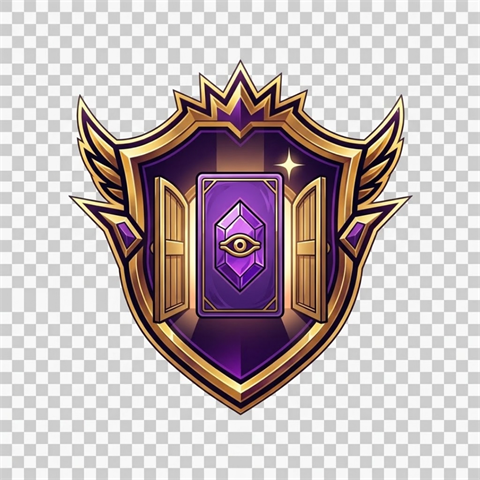
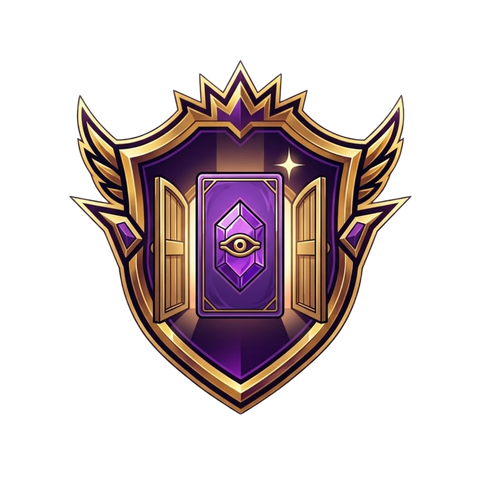
Replace Opening Act achievement artwork

diff --git a/profiles.js b/profiles.js
@@ -4,7 +4,7 @@ const destinationLabels={ephtear:"Ephtear",duelhalla:"Duelhalla","limb-faux":"Li
 const destinationImages={ephtear:"assets/retirement-ephtear.png",duelhalla:"assets/retirement-duelhalla.png","limb-faux":"assets/retirement-limbfaux.png"};
 const defaultAchievements=[
   ["opening-act","Opening Act","Complete your first confirmed match of the season."],["league-regular","League Regular","Complete 15 confirmed matches in the season."],["iron-duelist","Iron Duelist","Complete 50 confirmed matches in the season."],["first-blood","First Blood","Win your first match of the season."],["proven-duelist","Proven Duelist","Win 15 matches in the season."],["clean-sweep","Clean Sweep","Win a match 2–0."],["on-a-roll","On a Roll","Win 3 consecutive matches."],["bounce-back","Bounce Back","Win a match after at least 4 consecutive match losses."],["making-the-rounds","Making the Rounds","Duel against every other active duelist."],["equal-opportunity-duelist","Equal Opportunity Duelist","Win at least 1 match against every other active duelist."],["run-it-back","Run It Back","Win against a player who beat you earlier in the same season."],["last-stand","Last Stand","Win 3 matches with the same archetype while beginning each match at or above its Ephtear retirement threshold."],["leaving-a-legacy","Leaving a Legacy","Retire 3 archetypes to Ephtear or Duelhalla during the season."],["end-of-a-reign","End of a Reign","Win the decisive match that sends an opponent's archetype to Ephtear."],["ascension","Ascension","Retire an active archetype to Duelhalla."],
-].map(([id,name,description])=>({id,name,description,reward:4,imageUrl:`assets/achievements/${id}.png`}));
+].map(([id,name,description])=>({id,name,description,reward:4,imageUrl:`assets/achievements/${id}.png${id==="opening-act"?"?v=2":""}`}));
 const escapeHtml=(value="")=>String(value).replace(/[&<>'"]/g,character=>({"&":"&amp;","<":"&lt;",">":"&gt;","'":"&#39;",'"':"&quot;"})[character]);
 const safeReplayUrl=value=>{try{const url=new URL(value);return url.protocol==="https:"&&["duelingbook.com","www.duelingbook.com"].includes(url.hostname.toLowerCase())&&["/replay","/replay.php"].includes(url.pathname.replace(/\/$/,""))?url.href:null;}catch{return null;}};
 const dateLabel=value=>{const date=new Date(value);return Number.isNaN(date.valueOf())?"Date unavailable":new Intl.DateTimeFormat(undefined,{dateStyle:"medium"}).format(date);};
@@ -29,5 +29,5 @@ function renderProfile(player){
   profileElements.detail.scrollIntoView({behavior:"smooth",block:"start"});
 }
 profileElements.search.addEventListener("input",()=>{profileState.query=profileElements.search.value;renderRoster();});
-async function loadProfiles(){try{const response=await fetch(`data/banlist.json?v=${Date.now()}`,{cache:"no-store"});if(!response.ok)throw new Error(`HTTP ${response.status}`);const payload=await response.json();profileState.players=Array.isArray(payload.dashboard?.standings)?payload.dashboard.standings:[];profileState.active=Array.isArray(payload.activeArchetypes)?payload.activeArchetypes:[];profileState.retired=Array.isArray(payload.archetypes)?payload.archetypes:[];profileState.matches=Array.isArray(payload.dashboard?.matchHistory)?payload.dashboard.matchHistory:Array.isArray(payload.dashboard?.recentMatches)?payload.dashboard.recentMatches:[];profileState.achievements=Array.isArray(payload.achievements?.catalog)&&payload.achievements.catalog.length?payload.achievements.catalog:defaultAchievements;profileState.achievementAwards=Array.isArray(payload.achievements?.awards)?payload.achievements.awards:[];profileState.seasonName=payload.dashboard?.seasonName||payload.achievements?.seasonName||"Current season";profileElements.updated.textContent=payload.updatedAt?`Updated ${new Intl.DateTimeFormat(undefined,{dateStyle:"medium",timeStyle:"short"}).format(new Date(payload.updatedAt))}`:"Player records loaded";profileElements.total.textContent=`${profileState.players.length} player${profileState.players.length===1?"":"s"}`;renderRoster();const selected=new URLSearchParams(location.search).get("player");if(selected)renderProfile(profileState.players.find(player=>player.name===selected));}catch(error){console.error(error);profileElements.error.hidden=false;profileElements.updated.textContent="Player profiles unavailable";}}
+async function loadProfiles(){try{const response=await fetch(`data/banlist.json?v=${Date.now()}`,{cache:"no-store"});if(!response.ok)throw new Error(`HTTP ${response.status}`);const payload=await response.json();profileState.players=Array.isArray(payload.dashboard?.standings)?payload.dashboard.standings:[];profileState.active=Array.isArray(payload.activeArchetypes)?payload.activeArchetypes:[];profileState.retired=Array.isArray(payload.archetypes)?payload.archetypes:[];profileState.matches=Array.isArray(payload.dashboard?.matchHistory)?payload.dashboard.matchHistory:Array.isArray(payload.dashboard?.recentMatches)?payload.dashboard.recentMatches:[];const catalog=Array.isArray(payload.achievements?.catalog)&&payload.achievements.catalog.length?payload.achievements.catalog:defaultAchievements;profileState.achievements=catalog.map(item=>item.id==="opening-act"?{...item,imageUrl:"assets/achievements/opening-act.png?v=2"}:item);profileState.achievementAwards=Array.isArray(payload.achievements?.awards)?payload.achievements.awards:[];profileState.seasonName=payload.dashboard?.seasonName||payload.achievements?.seasonName||"Current season";profileElements.updated.textContent=payload.updatedAt?`Updated ${new Intl.DateTimeFormat(undefined,{dateStyle:"medium",timeStyle:"short"}).format(new Date(payload.updatedAt))}`:"Player records loaded";profileElements.total.textContent=`${profileState.players.length} player${profileState.players.length===1?"":"s"}`;renderRoster();const selected=new URLSearchParams(location.search).get("player");if(selected)renderProfile(profileState.players.find(player=>player.name===selected));}catch(error){console.error(error);profileElements.error.hidden=false;profileElements.updated.textContent="Player profiles unavailable";}}
 loadProfiles();

diff --git a/profiles.html b/profiles.html
@@ -20,6 +20,6 @@
       <section class="error-state" id="profiles-error" hidden><h2>Player profiles could not be loaded</h2><p>Refresh in a moment or let a league administrator know.</p></section>
     </main>
     <footer><div class="shell footer__content"><span>YugiFaux Player Profiles</span><span>Maintained automatically by The Fauxbidden One</span></div></footer>
-    <script src="profiles.js?v=6" defer></script>
+    <script src="profiles.js?v=7" defer></script>
   </body>
 </html>
